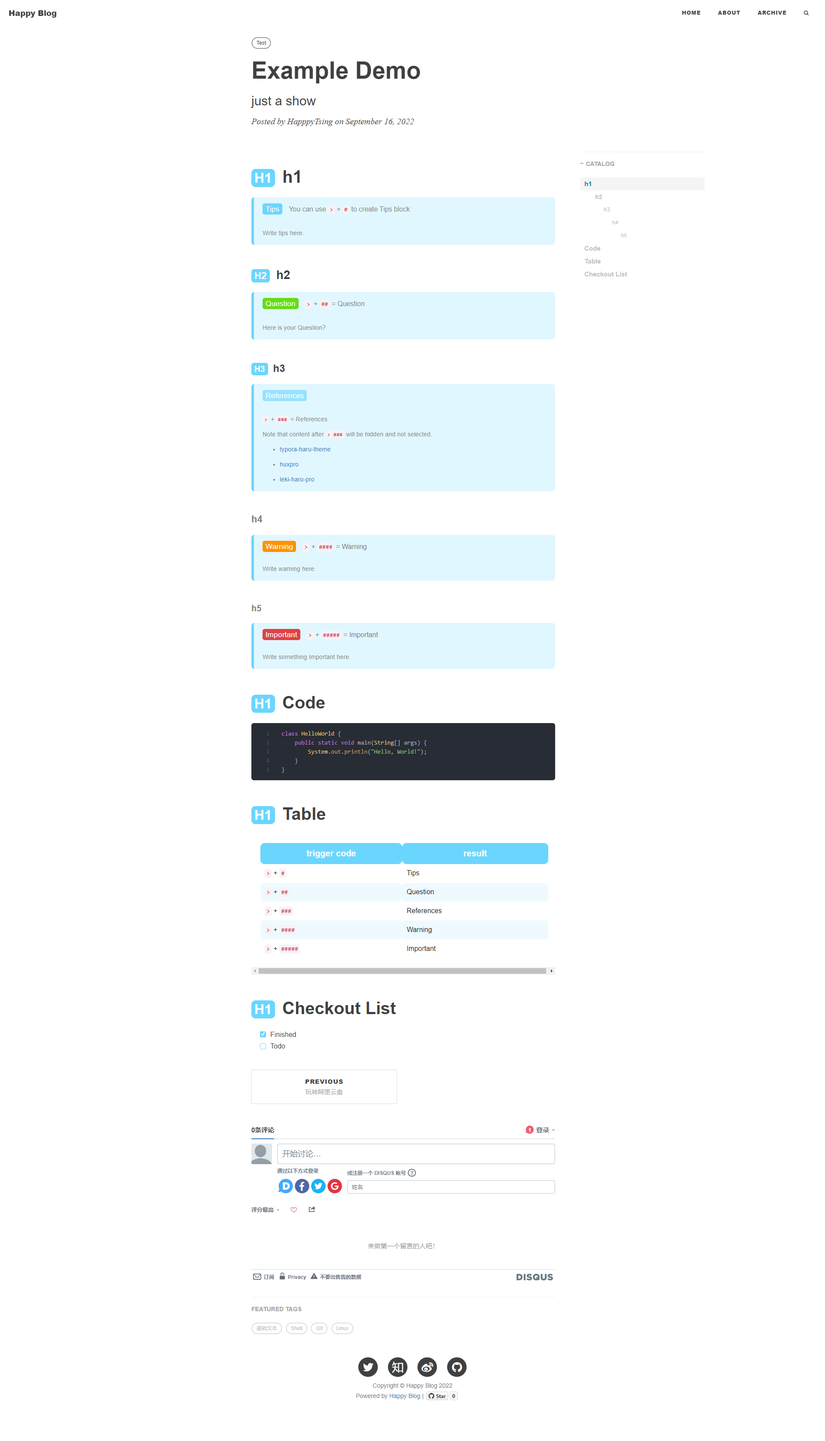
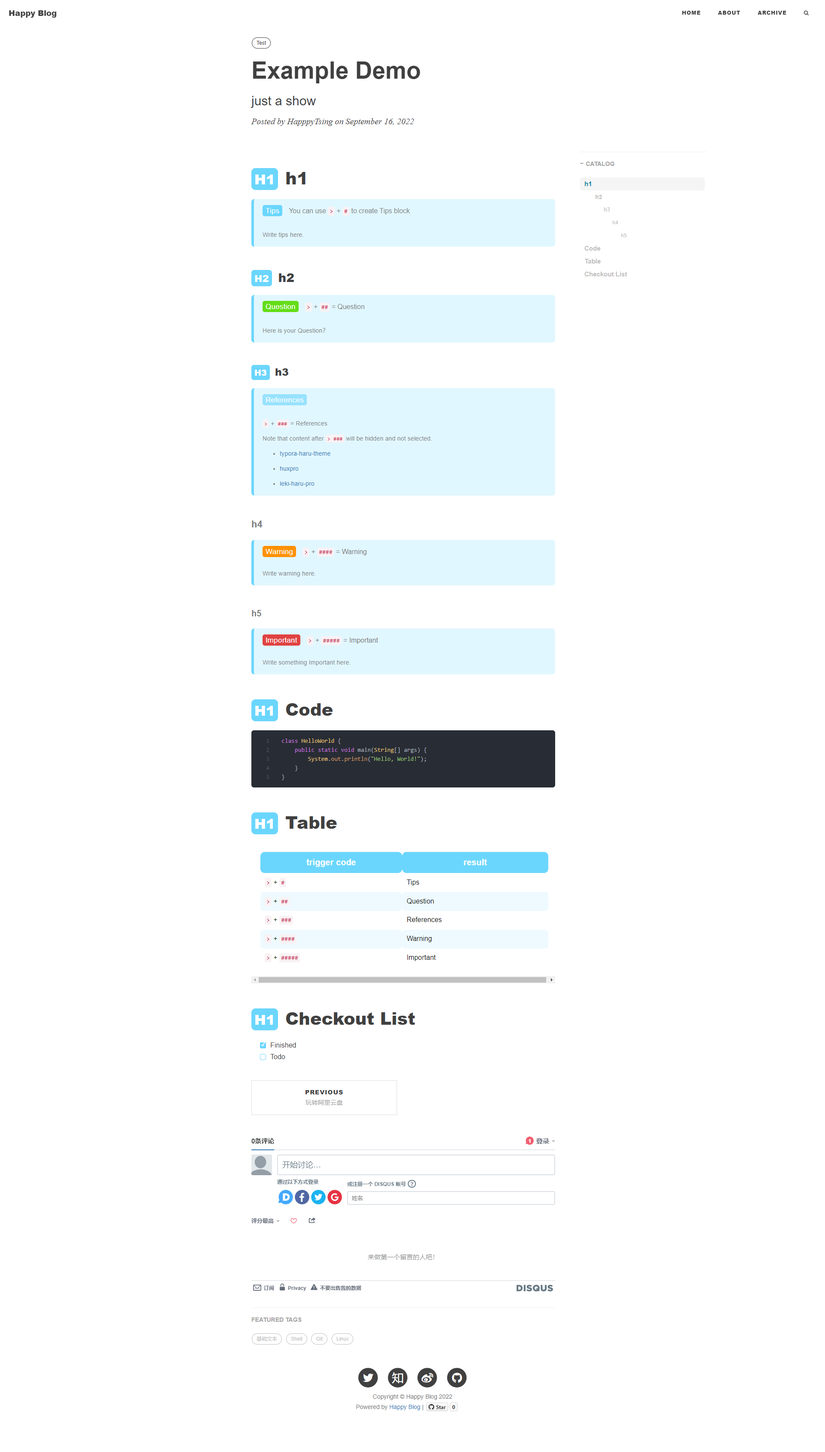
fix:h1-3 center

diff --git a/css/happy-blog.min.css b/css/happy-blog.min.css
@@ -1,0 +1,1 @@
+:root{--main-color:#6bd6fd;--transplate-color:rgba(128,30,255,.1);--dark-color:rgb(70,18,137);--light-color:#e1f7ff;--font-color:rgb(12,12,12);--blockquote-color:rgba(117,117,117,.9);--quote-title-font-size:.9em;--quote-tag-font-size:1.1em}@media (min-width:1200px){.post-container,.sidebar-container{padding-right:5%}}@media (min-width:768px){.post-container{padding-right:5%}}.sidebar-container{color:#bfbfbf;font-size:14px}.sidebar-container h5{color:#a3a3a3;padding-bottom:1em}.sidebar-container h5 a{color:#a3a3a3!important;text-decoration:none}.sidebar-container a{color:#bfbfbf!important}.sidebar-container a:hover,.sidebar-container a:active{color:#0085a1!important}.sidebar-container .tags a{border-color:#bfbfbf}.sidebar-container .tags a:hover,.sidebar-container .tags a:active{border-color:#0085a1}.sidebar-container .short-about img{width:80%;display:block;border-radius:5px;margin-bottom:20px}.sidebar-container .short-about p{margin-top:0;margin-bottom:20px}.sidebar-container .short-about .list-inline>li{padding-left:0}.catalog-container{padding:0}.side-catalog{display:block;overflow:auto;height:100%;padding-bottom:40px;width:295px}.side-catalog.fixed{position:fixed;top:-21px}.side-catalog.fold .catalog-toggle::before{content:"+"}.side-catalog.fold .catalog-body{display:none}.side-catalog .catalog-toggle::before{content:"−";position:relative;margin-right:5px;bottom:1px}.side-catalog .catalog-body{position:relative;list-style:none;height:auto;overflow:hidden;padding-left:0;padding-right:5px;text-indent:0}.side-catalog .catalog-body li{position:relative;list-style:none}.side-catalog .catalog-body li a{padding-left:10px;max-width:280px;display:inline-block;vertical-align:middle;height:30px;line-height:30px;overflow:hidden;text-decoration:none;white-space:nowrap;text-overflow:ellipsis}.side-catalog .catalog-body .h1_nav{margin-left:0;font-size:15px;font-weight:700}.side-catalog .catalog-body .h2_nav{margin-left:25px;font-size:14px;font-weight:700}.side-catalog .catalog-body .h3_nav{margin-left:45px;font-size:13px}.side-catalog .catalog-body .h4_nav{margin-left:65px;font-size:12px}.side-catalog .catalog-body .h4_nav a{max-width:170px}.side-catalog .catalog-body .h5_nav,.h6_nav{margin-left:85px;font-size:12px}.side-catalog .catalog-body .h5_nav,.h6_nav a{max-width:170px}.side-catalog .catalog-body .active{border-radius:4px;background-color:#f5f5f5}.side-catalog .catalog-body .active a{color:#0085a1!important}@media (max-width:1200px){.side-catalog{display:none}}.paper-snackbar{transition-property:opacity,bottom,left,right,width,margin,border-radius;transition-duration:0.5s;transition-timing-function:ease;font-size:14px;min-height:14px;background-color:#323232;background-color:#0085a1;position:fixed;display:flex;justify-content:space-between;align-items:center;color:#fff;line-height:22px;padding:18px 24px;bottom:0;opacity:0}@media (min-width:640px){.paper-snackbar{min-width:288px;max-width:568px;display:inline-flex;border-radius:2px;margin:24px;bottom:-100px}}@media (max-width:640px){.paper-snackbar{left:0;right:0}}.paper-snackbar .action{background:inherit;display:inline-block;border:none;font-size:inherit;text-transform:uppercase;color:#ffeb3b;margin:0 0 0 24px;padding:0;min-width:min-content;outline:0}.paper-button{position:relative;padding:4px 0;margin:1em;width:160px;overflow:hidden;user-select:none;color:#000;text-transform:uppercase;border-radius:3px;outline-color:#a3a3a3}.paper-button:hover{cursor:pointer}.paper-button button,.paper-button input[type="submit"]{background:inherit;border:none;display:block;width:100%;height:100%;font-size:1em;color:#000;text-transform:uppercase}.paper-button.colored,.paper-button.colored button{color:#4285f4}.paper-button.raised-button.colored{background-color:#4285f4}.paper-button .raised-button{box-shadow:0 2px 5px 0 rgba(0,0,0,.26)}.paper-button.raised-button.colored{background:#4285f4;color:#fff}.paper-button[disabled]{background-color:#eaeaea!important;color:#a8a8a8!important;cursor:auto}.paper-button:hover{background-color:#eaeaea}.paper-button.raised-button.colored:hover{background-color:#3367d6}button.paper-button{border:0;font-size:1em;line-height:25px;background-color:#fff}.paper-button input[type="submit"]{outline-color:#a3a3a3}.paper-button.colored.raised-button input[type="submit"]{color:#fff}.paper-shadow-animated.paper-shadow{transition:box-shadow 0.28s cubic-bezier(.4,0,.2,1)}.paper-shadow-top-z-1{box-shadow:0 2px 10px 0 rgba(0,0,0,.16)}.paper-shadow-bottom-z-1{box-shadow:0 2px 5px 0 rgba(0,0,0,.26)}.paper-shadow-top-z-2{box-shadow:0 6px 20px 0 rgba(0,0,0,.19)}.paper-shadow-bottom-z-2{box-shadow:0 8px 17px 0 rgba(0,0,0,.2)}.paper-shadow-top-z-3{box-shadow:0 17px 50px 0 rgba(0,0,0,.19)}.paper-shadow-bottom-z-3{box-shadow:0 12px 15px 0 rgba(0,0,0,.24)}.paper-shadow-top-z-4{box-shadow:0 25px 55px 0 rgba(0,0,0,.21)}.card{background:#fff;width:300px;height:300px;position:relative;margin:16px;border-radius:2px}.highlight,pre.highlight{background:#282c34;color:#abb2bf}.highlight pre{background:#282c34}.highlight .hll{background:#282c34}.highlight .c{color:#5c6370;font-style:italic}.highlight .err{color:#960050;background-color:#1e0010}.language-coq .highlight .err{background-color:transparent}.highlight .k,.language-coq .highlight .err{color:#c678dd}.highlight .l{color:#98c379}.highlight .n{color:#abb2bf}.highlight .o{color:#abb2bf}.highlight .p{color:#abb2bf}.highlight .cm{color:#5c6370;font-style:italic}.highlight .cp{color:#5c6370;font-style:italic}.highlight .c1{color:#5c6370;font-style:italic}.highlight .cs{color:#5c6370;font-style:italic}.highlight .ge{font-style:italic}.highlight .gs{font-weight:700}.highlight .kc{color:#c678dd}.highlight .kd{color:#c678dd}.highlight .kn{color:#c678dd}.highlight .kp{color:#c678dd}.highlight .kr{color:#c678dd}.highlight .kt{color:#c678dd}.highlight .ld{color:#98c379}.highlight .m{color:#d19a66}.highlight .s{color:#98c379}.highlight .na{color:#d19a66}.highlight .nb{color:#e5c07b}.highlight .nc{color:#e5c07b}.highlight .no{color:#e5c07b}.highlight .nd{color:#e5c07b}.highlight .ni{color:#e5c07b}.highlight .ne{color:#e5c07b}.highlight .nf{color:#abb2bf}.highlight .nl{color:#e5c07b}.highlight .nn{color:#abb2bf}.highlight .nx{color:#abb2bf}.highlight .py{color:#e5c07b}.highlight .nt{color:#e06c75}.highlight .nv{color:#e5c07b}.highlight .ow{font-weight:700}.highlight .w{color:#f8f8f2}.highlight .mf{color:#d19a66}.highlight .mh{color:#d19a66}.highlight .mi{color:#d19a66}.highlight .mo{color:#d19a66}.highlight .sb{color:#98c379}.highlight .sc{color:#98c379}.highlight .sd{color:#98c379}.highlight .s2{color:#98c379}.highlight .se{color:#98c379}.highlight .sh{color:#98c379}.highlight .si{color:#98c379}.highlight .sx{color:#98c379}.highlight .sr{color:#56b6c2}.highlight .s1{color:#98c379}.highlight .ss{color:#56b6c2}.highlight .bp{color:#e5c07b}.highlight .vc{color:#e5c07b}.highlight .vg{color:#e5c07b}.highlight .vi{color:#e06c75}.highlight .il{color:#d19a66}.highlight .gu{color:#75715e}.highlight .gd{color:#f92672}.highlight .gi{color:#a6e22e}.highlighter-rouge .highlight{margin-bottom:10px;border-radius:6px}.highlighter-rouge .highlight pre{font-size:14px;line-height:1.5;color:#555;background:transparent;border:0;margin:0;padding:0;word-wrap:normal}.highlighter-rouge .highlight .rouge-table .rouge-gutter,.highlighter-rouge .highlight .rouge-table .rouge-code{border:0!important}.highlighter-rouge .highlight .rouge-code pre{color:#abb2bf}.highlighter-rouge .highlight .table-responsive{margin:0;border:0}.highlighter-rouge .highlight .table{margin:0;table-layout:fixed}.highlighter-rouge .highlight table>tbody>tr>td{margin:0;border:0;padding:0}.highlighter-rouge .highlight table>tbody>tr>td>pre{padding:14px}.highlighter-rouge .highlight td.rouge-gutter{width:56px}.highlighter-rouge .highlight .lineno{text-align:right;border-radius:0}@media (max-width:480px){.highlighter-rouge .highlight{margin-left:-15px;margin-right:-15px;border-radius:0}.highlighter-rouge .highlight td.rouge-gutter{width:36px}.highlighter-rouge .highlight table>tbody>tr>td>pre{padding:14px 10px}}.search-page{position:fixed;top:0;right:0;bottom:0;left:0;z-index:100;background:#fff;-webkit-transition:all 400ms cubic-bezier(.32,1,.23,1);transition:all 400ms cubic-bezier(.32,1,.23,1);-webkit-transform:translate(0,100%);-ms-transform:translate(0,100%);transform:translate(0,100%);opacity:0}.search-page.search-active{opacity:1;-webkit-transform:translate(0,0) scale(1,1);-ms-transform:translate(0,0) scale(1,1);transform:translate(0,0) scale(1,1)}.search-page.search-active .search-main{opacity:1}.search-page .search-main{padding-top:80px;height:100%;opacity:0;-webkit-transition:all 400ms cubic-bezier(.32,1,.23,1) 250ms;transition:all 400ms cubic-bezier(.32,1,.23,1) 250ms}.search-page .search-main .row,.search-page .search-main .row>div{height:100%}.search-page .search-icon-close-container{position:absolute;z-index:1;padding:16px;top:0;right:2px}.search-page .search-icon-close-container i{font-size:20px}.search-page #search-input{font-family:"Fira Code",Menlo,Monaco,Consolas,"Courier New",monospace;border:none;outline:none;padding:0;margin:0;width:100%;font-size:30px;font-weight:700;color:#404040}@media only screen and (min-width:768px){.search-page #search-input{margin-left:20px}}.search-page #search-results{overflow:auto;height:100%;-webkit-overflow-scrolling:touch;padding-bottom:80px}.search-icon a,.search-icon-close{cursor:pointer;font-size:30px;color:#311e3e;-webkit-transition:all 0.25s;transition:all 0.25s}.search-icon a:hover,.search-icon-close:hover{opacity:.8}.search-icon,.search-icon-close{font-size:16px}body{font-family:-apple-system,BlinkMacSystemFont,"Helvetica Neue","Arial","PingFang SC","Hiragino Sans GB","STHeiti","Microsoft YaHei","Microsoft JhengHei","Source Han Sans SC","Noto Sans CJK SC","Source Han Sans CN","Noto Sans SC","Source Han Sans TC","Noto Sans CJK TC","WenQuanYi Micro Hei",SimSun,sans-serif;line-height:1.7;font-size:16px;color:#404040;overflow-x:hidden;text-rendering:auto;-webkit-font-smoothing:antialiased;-moz-osx-font-smoothing:grayscale}p{margin:.5rem 0}@media screen and (max-width:768px){p{margin:.3rem 0}}h1,h2,h3,h4,h5,h6{font-family:-apple-system,BlinkMacSystemFont,"Helvetica Neue","Arial","PingFang SC","Hiragino Sans GB","STHeiti","Microsoft YaHei","Microsoft JhengHei","Source Han Sans SC","Noto Sans CJK SC","Source Han Sans CN","Noto Sans SC","Source Han Sans TC","Noto Sans CJK TC","WenQuanYi Micro Hei",SimSun,sans-serif;line-height:1.7;line-height:1.1;font-weight:700}a{color:#404040}a:hover,a:focus{color:#0085a1}a img:hover,a img:focus{cursor:zoom-in}article{overflow:hidden}.post-container>h1,.post-container>h2,.post-container>h3,.post-container>h4,.post-container>h5,.post-container>h6{font-weight:800;line-height:1.5;margin-top:50px;margin-bottom:20px}.post-container>blockquote>h1,.post-container>blockquote>h2,.post-container>blockquote>h3,.post-container>blockquote>h4,.post-container>blockquote>h5,.post-container>blockquote>h6{margin:0 0 1em 0}.post-container>blockquote{margin:20px 0;font-size:var(--quote-title-font-size);color:var(--blockquote-color);border-left:6px solid var(--main-color);background:var(--light-color);border-radius:.5em;line-height:35px}.post-container blockquote h1{font-weight:200;font-size:var(--quote-tag-font-size);border-bottom:none;line-height:35px}.post-container blockquote h1::before{content:"Tips";background-color:var(--main-color);color:#fff;font-size:var(--quote-tag-font-size);border-radius:.3em;padding:3px 7px;margin-right:15px}.post-container blockquote h2{font-weight:200;font-size:var(--quote-tag-font-size);line-height:35px;margin:0}.post-container blockquote h2::before{content:"Question";background-color:#64dd17;color:#fff;font-size:var(--quote-tag-font-size);border-radius:.3em;padding:3px 7px;margin-right:15px}.post-container blockquote h3{font-weight:200;font-size:var(--quote-tag-font-size);line-height:35px;color:var(--light-color);-webkit-touch-callout:none;-webkit-user-select:none;-khtml-user-select:none;-moz-user-select:none;-ms-user-select:none;user-select:none}.post-container blockquote h3::before{content:"References";background-color:#6bd6fda1;color:#fff;font-size:var(--quote-tag-font-size);border-radius:.3em;padding:3px 7px;margin-right:15px;float:none;position:relative;top:0;left:0;vertical-align:baseline;border-width:0}.post-container blockquote h4{font-weight:200;font-size:var(--quote-tag-font-size);line-height:35px}.post-container blockquote h4::before{content:"Warning";background-color:#ff9100;color:#fff;font-size:var(--quote-tag-font-size);border-radius:.3em;padding:3px 7px;margin-right:15px;float:none;position:relative;top:0;left:0;vertical-align:baseline;border-width:0}.post-container blockquote h5{font-weight:200;font-size:var(--quote-tag-font-size);font-family:var(--base-font);line-height:35px}.post-container blockquote h5::before{content:"Important";background-color:rgb(224,66,66);color:#fff;font-size:var(--quote-tag-font-size);border-radius:.3em;padding:3px 7px;margin-right:15px;float:none;position:relative;top:0;left:0;vertical-align:baseline;border-width:0}blockquote p{margin:0}small.img-hint{display:block;margin-top:-20px;text-align:center}br+small.img-hint{margin-top:-40px}img.shadow{box-shadow:rgba(0,0,0,.258824) 0 2px 5px 0}select{-webkit-appearance:none;margin-top:15px;color:#337ab7;border-color:#337ab7;padding:0em .4em;background:#fff}select.sel-lang{min-height:28px;font-size:14px}table{margin-top:10px}.task-list{padding-left:20px}.task-list>.task-list-item{list-style:none}.task-list>.task-list-item>input{margin-right:10px;-webkit-appearance:none;appearance:none;outline:none}.task-list-item:hover>input:before,input[type="checkbox"]:hover:before{opacity:1;transition:0.3s;background-color:var(--main-color)}.task-list-item input::before{content:"";display:inline-block;border-radius:.25em;vertical-align:middle;border:1.2px solid var(--main-color);background-color:#fff;width:1.4rem;height:1.4rem;margin-top:-.68rem;margin-bottom:-.5rem}.task-list-item input:checked::before{padding-left:.125em;content:"✔";color:#fff;background-color:var(--main-color);font-size:.8rem;line-height:.95rem;margin-top:-.68rem;transition:background-color 200ms ease-in-out}#footer-word-count-label{color:#fff;padding:1px 8px;border-radius:1em;background-color:var(--main-color)}.post-container>.table-responsive>table{width:95%;border-collapse:collapse;margin:20px}.post-container>.table-responsive td,th{border:1px solid transparent;color:rgb(18,18,18);height:30px;padding:10px;border-radius:.5em;transition:all 0.3s linear;-moz-transition:all 0.3s linear;-webkit-transition:all 0.3s linear}.post-container>.table-responsive thead th{background-color:#6bd6fd;font-size:20px;color:#fff;font-weight:bolder;width:100px;text-align:center;vertical-align:middle;padding:10px;border-bottom:0}.post-container>.table-responsive tr:nth-child(odd){background:#fff}.post-container>.table-responsive tr:nth-child(even){background:#e1f7ff94}.post-container>.table-responsive td:hover{background-color:#6bd6fd!important;color:white!important;transition:all 0.3s linear;-moz-transition:all 0.3s linear;-webkit-transition:all 0.3s linear}@media screen and (max-width:767px){.table-responsive{border:0}}hr.small{max-width:100px;margin:15px auto;border-width:4px;border-color:#fff}pre,.table-responsive{-webkit-overflow-scrolling:touch}pre code{display:block;width:auto;white-space:pre;word-wrap:normal}code,kbd,pre,samp{font-family:"Fira Code",Menlo,Monaco,Consolas,"Courier New",monospace}.postlist-container{margin-bottom:15px}.post-container a{color:#337ab7}.post-container a:hover,.post-container a:focus{color:#0085a1}.post-container h1+p,.post-container h2+p,.post-container h3+p,.post-container h4+p,.post-container h5+p,.post-container h6+p{margin-top:20px}.post-container h1{font-size:40px;border-radius:.7em;width:fit-content}.post-container h1::before{content:"H1";border-radius:.3em;font-size:.8em;padding:3px 7px;margin-right:17px;background-color:var(--main-color);color:#fff}.post-container h2{font-size:28px;border-radius:.5em;width:fit-content}.post-container h2::before{content:"H2";border-radius:.3em;font-size:.8em;padding:3px 7px;margin-right:15px;background-color:var(--main-color);color:#fff}.post-container h3{font-size:24px;border-radius:.3em;width:fit-content}.post-container h3::before{content:"H3";color:#fff;font-size:.8em;background-color:var(--main-color);border-radius:.3em;margin-right:12px;padding:4px 7px;float:none;position:relative;top:0;left:0;vertical-align:baseline;border-width:0}.post-container h4{font-size:22px;font-weight:600;color:gray}.post-container h4+p{margin-top:10px}.post-container h5,.post-container h6{font-size:20px;font-weight:600;color:gray}.post-container h5+p,.post-container h6+p{margin-top:10px}@media screen and (max-width:768px){.post-container h1{font-size:30px}.post-container h2{font-size:22px}.post-container h3{font-size:20px}.post-container h4{font-size:19px}.post-container h5,.post-container h6{font-size:18px}}.post-container ul,.post-container ol{margin-bottom:10px}@media screen and (max-width:768px){.post-container ul,.post-container ol{padding-left:60px}}@media screen and (max-width:500px){.post-container ul,.post-container ol{padding-left:4px}}.post-container ol ol,.post-container ol ul,.post-container ul ol,.post-container ul ul{margin-bottom:5px}.post-container li p{margin:0;margin-bottom:5px}.post-container li h1,.post-container li h2,.post-container li h3,.post-container li h4,.post-container li h5,.post-container li h6{line-height:2;margin-top:20px}.post-container .pager li{width:48%}.post-container .pager li.next{float:right}.post-container .pager li.previous{float:left}.post-container .pager li>a{width:100%}.post-container .pager li>a>span{color:#a3a3a3;font-weight:400;letter-spacing:.5px}.post-container .anchorjs-link{position:absolute;text-decoration:none!important}@media only screen and (max-width:767px){.navbar-default .navbar-collapse{position:absolute;right:0;border:none;background:#fff;box-shadow:0 5px 10px 2px rgba(0,0,0,.2);box-shadow:rgba(0,0,0,.117647) 0 1px 6px,rgba(0,0,0,.239216) 0 1px 4px;border-radius:2px;width:170px}#huxblog_navbar{opacity:0;transform:scaleX(0);transform-origin:top right;transition:all 200ms cubic-bezier(.47,0,.4,.99) 0ms;-webkit-transform:scaleX(0);-webkit-transform-origin:top right;-webkit-transition:all 200ms cubic-bezier(.47,0,.4,.99) 0ms}#huxblog_navbar a{font-size:13px;line-height:28px}#huxblog_navbar .navbar-collapse{height:0;transform:scaleY(0);transform-origin:top right;transition:transform 400ms cubic-bezier(.32,1,.23,1) 0ms;-webkit-transform:scaleY(0);-webkit-transform-origin:top right;-webkit-transition:-webkit-transform 400ms cubic-bezier(.32,1,.23,1) 0ms}#huxblog_navbar li{opacity:0;transition:opacity 100ms cubic-bezier(.23,1,.32,1) 0ms;-webkit-transition:opacity 100ms cubic-bezier(.23,1,.32,1) 0ms}#huxblog_navbar.in{transform:scaleX(1);-webkit-transform:scaleX(1);opacity:1;transition:all 250ms cubic-bezier(.23,1,.32,1) 0ms;-webkit-transition:all 250ms cubic-bezier(.23,1,.32,1) 0ms}#huxblog_navbar.in .navbar-collapse{transform:scaleY(1);-webkit-transform:scaleY(1);transition:transform 500ms cubic-bezier(.23,1,.32,1);-webkit-transition:-webkit-transform 500ms cubic-bezier(.23,1,.32,1)}#huxblog_navbar.in li{opacity:1;transition:opacity 450ms cubic-bezier(.23,1,.32,1) 205ms;-webkit-transition:opacity 450ms cubic-bezier(.23,1,.32,1) 205ms}}.navbar-custom{background:none;border:none;position:absolute;top:0;left:0;width:100%;z-index:3;font-family:-apple-system,BlinkMacSystemFont,"Helvetica Neue","Arial","PingFang SC","Hiragino Sans GB","STHeiti","Microsoft YaHei","Microsoft JhengHei","Source Han Sans SC","Noto Sans CJK SC","Source Han Sans CN","Noto Sans SC","Source Han Sans TC","Noto Sans CJK TC","WenQuanYi Micro Hei",SimSun,sans-serif;line-height:1.7}.navbar-custom .navbar-brand{font-weight:800;color:#fff;height:56px;line-height:25px}.navbar-custom .navbar-brand:hover{color:rgba(255,255,255,.8)}.navbar-custom .nav li a{text-transform:uppercase;font-size:12px;line-height:20px;font-weight:800;letter-spacing:1px}.navbar-custom .nav li a:active{background:rgba(0,0,0,.12)}@media only screen and (min-width:768px){.navbar-custom{background:transparent;border-bottom:1px solid transparent}.navbar-custom body{font-size:20px}.navbar-custom .navbar-brand{color:#fff;padding:20px;line-height:20px}.navbar-custom .navbar-brand:hover,.navbar-custom .navbar-brand:focus{color:rgba(255,255,255,.8)}.navbar-custom .nav li a{color:#fff;padding:20px}.navbar-custom .nav li a:hover,.navbar-custom .nav li a:focus{color:rgba(255,255,255,.8)}.navbar-custom .nav li a:active{background:none}}.navbar-custom.invert .navbar-toggle:active{background-color:rgba(0,0,0,.05)}.navbar-custom.invert .navbar-toggle .icon-bar{background-color:#404040}.navbar-custom.invert .navbar-brand{color:#404040}.navbar-custom.invert .navbar-brand:hover,.navbar-custom.invert .navbar-brand:focus{color:#0085a1}.navbar-custom.invert .nav li a{color:#404040}.navbar-custom.invert .nav li a:hover,.navbar-custom.invert .nav li a:focus{color:#0085a1}@media only screen and (min-width:1170px){.navbar-custom{-webkit-transition:background-color 0.3s;-moz-transition:background-color 0.3s;transition:background-color 0.3s;-webkit-transform:translate3d(0,0,0);-moz-transform:translate3d(0,0,0);-ms-transform:translate3d(0,0,0);-o-transform:translate3d(0,0,0);transform:translate3d(0,0,0);-webkit-backface-visibility:hidden;backface-visibility:hidden}.navbar-custom.is-fixed{position:fixed;top:-61px;background-color:rgba(255,255,255,.9);border-bottom:1px solid #f2f2f2;-webkit-transition:-webkit-transform 0.3s;-moz-transition:-moz-transform 0.3s;transition:transform 0.3s}.navbar-custom.is-fixed .navbar-brand{color:#404040}.navbar-custom.is-fixed .navbar-brand:hover,.navbar-custom.is-fixed .navbar-brand:focus{color:#0085a1}.navbar-custom.is-fixed .nav li a{color:#404040}.navbar-custom.is-fixed .nav li a:hover,.navbar-custom.is-fixed .nav li a:focus{color:#0085a1}.navbar-custom.is-visible{-webkit-transform:translate3d(0,100%,0);-moz-transform:translate3d(0,100%,0);-ms-transform:translate3d(0,100%,0);-o-transform:translate3d(0,100%,0);transform:translate3d(0,100%,0)}}.intro-header{background:no-repeat center center;background-color:#a3a3a3;background-attachment:scroll;-webkit-background-size:cover;-moz-background-size:cover;background-size:cover;-o-background-size:cover;margin-bottom:0}.intro-header.style-text{background:none}.intro-header.style-text .site-heading,.intro-header.style-text .post-heading,.intro-header.style-text .page-heading{padding:85px 0 20px;color:#404040}.intro-header.style-text .site-heading .subheading,.intro-header.style-text .post-heading .subheading,.intro-header.style-text .page-heading .subheading{margin-bottom:15px}.intro-header.style-text .tags a,.intro-header.style-text .tags .tag{border-color:#404040;color:#404040}.intro-header.style-text .tags a:hover,.intro-header.style-text .tags .tag:hover,.intro-header.style-text .tags a:active,.intro-header.style-text .tags .tag:active{background-color:rgba(0,0,0,.05)}@media only screen and (min-width:768px){.intro-header{margin-bottom:20px}}.intro-header .site-heading,.intro-header .post-heading,.intro-header .page-heading{padding:85px 0 55px;color:#fff}@media only screen and (min-width:768px){.intro-header .site-heading,.intro-header .post-heading,.intro-header .page-heading{padding:150px 0}}.intro-header .site-heading{padding:95px 0 70px}@media only screen and (min-width:768px){.intro-header .site-heading{padding:150px 0}}.intro-header .site-heading,.intro-header .page-heading{text-align:center}.intro-header .site-heading h1,.intro-header .page-heading h1{margin-top:0;font-size:50px}.intro-header .site-heading .subheading,.intro-header .page-heading .subheading{font-family:-apple-system,BlinkMacSystemFont,"Helvetica Neue","Arial","PingFang SC","Hiragino Sans GB","STHeiti","Microsoft YaHei","Microsoft JhengHei","Source Han Sans SC","Noto Sans CJK SC","Source Han Sans CN","Noto Sans SC","Source Han Sans TC","Noto Sans CJK TC","WenQuanYi Micro Hei",SimSun,sans-serif;line-height:1.7;font-size:18px;line-height:1.1;display:block;font-weight:300;margin:10px 0 0}@media only screen and (min-width:768px){.intro-header .site-heading h1,.intro-header .page-heading h1{font-size:80px}}.intro-header .post-heading h1{font-size:30px;margin-bottom:24px}.intro-header .post-heading .subheading,.intro-header .post-heading .meta{line-height:1.1;display:block}.intro-header .post-heading .subheading{font-family:-apple-system,BlinkMacSystemFont,"Helvetica Neue","Arial","PingFang SC","Hiragino Sans GB","STHeiti","Microsoft YaHei","Microsoft JhengHei","Source Han Sans SC","Noto Sans CJK SC","Source Han Sans CN","Noto Sans SC","Source Han Sans TC","Noto Sans CJK TC","WenQuanYi Micro Hei",SimSun,sans-serif;line-height:1.7;font-size:17px;line-height:1.4;font-weight:400;margin:10px 0 30px;margin-top:-5px}.intro-header .post-heading .meta{font-family:"Lora","Times New Roman",serif;font-style:italic;font-weight:300;font-size:16px}.intro-header .post-heading .meta a{color:#fff}@media only screen and (min-width:768px){.intro-header .post-heading h1{font-size:55px}.intro-header .post-heading .subheading{font-size:30px}.intro-header .post-heading .meta{font-size:20px}}.intro-header .header-img-credit{position:absolute;bottom:6px;right:9px;color:#fff;opacity:.3;font-size:10px;z-index:1}.intro-header .header-img-credit a{color:#fff}@media only screen and (min-width:768px){.intro-header .header-img-credit{font-size:12px;bottom:10px;right:15px}}.post-preview>a{color:#404040}.post-preview>a:hover,.post-preview>a:focus{text-decoration:none;color:#0085a1}.post-preview>a>.post-title{font-size:21px;line-height:1.3;margin-top:30px;margin-bottom:8px}.post-preview>a>.post-subtitle{font-size:15px;line-height:1.3;margin:0;font-weight:300;margin-bottom:10px}.post-preview>.post-meta{font-family:"Lora","Times New Roman",serif;color:#a3a3a3;font-size:16px;font-style:italic;margin-top:0}.post-preview>.post-meta>a{text-decoration:none;color:#404040}.post-preview>.post-meta>a:hover,.post-preview>.post-meta>a:focus{color:#0085a1;text-decoration:underline}@media only screen and (min-width:768px){.post-preview>a>.post-title{font-size:25px;line-height:1.3;margin-bottom:10px}.post-preview>a>.post-subtitle{font-size:16px}.post-preview .post-meta{font-size:18px}}.post-content-preview{font-size:13px;font-style:normal;color:#a3a3a3}.post-content-preview:hover{color:#0085a1}@media only screen and (min-width:768px){.post-content-preview{font-size:14px}}.section-heading{font-size:36px;margin-top:60px;font-weight:700}.caption{text-align:center;font-size:14px;padding:10px;font-style:italic;margin:0;display:block;border-bottom-right-radius:5px;border-bottom-left-radius:5px}footer{font-size:20px;padding:50px 0 65px}footer .list-inline{margin:0;padding:0}footer .copyright{font-size:14px;text-align:center;margin-bottom:0}footer .copyright a{color:#337ab7}footer .copyright a:hover,footer .copyright a:focus{color:#0085a1}.btn{font-family:-apple-system,BlinkMacSystemFont,"Helvetica Neue","Arial","PingFang SC","Hiragino Sans GB","STHeiti","Microsoft YaHei","Microsoft JhengHei","Source Han Sans SC","Noto Sans CJK SC","Source Han Sans CN","Noto Sans SC","Source Han Sans TC","Noto Sans CJK TC","WenQuanYi Micro Hei",SimSun,sans-serif;line-height:1.7;text-transform:uppercase;font-size:14px;font-weight:800;letter-spacing:1px;border-radius:0;padding:15px 25px}.btn-lg{font-size:16px;padding:25px 35px}.btn-default:hover,.btn-default:focus{background-color:#0085a1;border:1px solid #0085a1;color:#fff}.pager{margin:20px 0 0!important;padding:0px!important}.pager li>a,.pager li>span{font-family:-apple-system,BlinkMacSystemFont,"Helvetica Neue","Arial","PingFang SC","Hiragino Sans GB","STHeiti","Microsoft YaHei","Microsoft JhengHei","Source Han Sans SC","Noto Sans CJK SC","Source Han Sans CN","Noto Sans SC","Source Han Sans TC","Noto Sans CJK TC","WenQuanYi Micro Hei",SimSun,sans-serif;line-height:1.7;text-transform:uppercase;font-size:13px;font-weight:800;letter-spacing:1px;padding:10px;background-color:#fff;border-radius:0}@media only screen and (min-width:768px){.pager li>a,.pager li>span{font-size:14px;padding:15px 25px}}.pager li>a{color:#404040}.pager li>a:hover,.pager li>a:focus{color:#fff;background-color:#0085a1;border:1px solid #0085a1}.pager li>a:hover>span,.pager li>a:focus>span{color:#fff}.pager .disabled>a,.pager .disabled>a:hover,.pager .disabled>a:focus,.pager .disabled>span{color:#a3a3a3;background-color:#404040;cursor:not-allowed}::-moz-selection{color:#fff;text-shadow:none;background:#0085a1}::selection{color:#fff;text-shadow:none;background:#0085a1}img::selection{color:#fff;background:transparent}img::-moz-selection{color:#fff;background:transparent}.d-none{display:none!important}.tags{margin-bottom:-5px}.tags.tags-sup a,.tags.tags-sup .tag{padding:0 10px 0 12px}.tags a,.tags .tag{display:inline-block;border:1px solid rgba(255,255,255,.8);border-radius:999em;padding:0 10px 0 10px;color:#fff;line-height:24px;font-size:12px;text-decoration:none;margin:0 1px;margin-bottom:6px;cursor:pointer}.tags a>sup,.tags .tag>sup{margin-left:-2px;font-weight:700}.tags a:hover,.tags .tag:hover,.tags a:active,.tags .tag:active{color:#fff;border-color:#fff;background-color:rgba(255,255,255,.4);text-decoration:none}@media only screen and (min-width:768px){.tags a,.tags .tag{margin-right:5px}}#tag-heading{padding:70px 0 60px}@media only screen and (min-width:768px){#tag-heading{padding:55px 0}}#tag_cloud{margin:20px 0 15px 0}#tag_cloud a,#tag_cloud .tag{transition-property:all;transition-duration:0.4s;transition-timing-function:ease;font-size:14px;border:none;line-height:28px;margin:0 2px;margin-bottom:8px;background:#f3f5f5}#tag_cloud a:hover,#tag_cloud .tag:hover,#tag_cloud a:active,#tag_cloud .tag:active,#tag_cloud a.focus,#tag_cloud .tag.focus{background-color:#0085a1!important}#tag_cloud a.focus,#tag_cloud .tag.focus{box-shadow:rgba(0,0,0,.117647) 0 1px 6px,rgba(0,0,0,.239216) 0 1px 4px}#tag_cloud a.tag-button--all,#tag_cloud .tag.tag-button--all{font-weight:700;color:#0085a1!important}#tag_cloud a.tag-button--all:hover,#tag_cloud .tag.tag-button--all:hover,#tag_cloud a.tag-button--all:active,#tag_cloud .tag.tag-button--all:active,#tag_cloud a.tag-button--all.focus,#tag_cloud .tag.tag-button--all.focus{background-color:#e4e4e4!important}@media only screen and (min-width:768px){#tag_cloud{margin-bottom:25px}}.tag-comments{font-size:12px}@media only screen and (min-width:768px){.tag-comments{font-size:14px}}.t:first-child{margin-top:0}.listing-seperator{color:#0085a1;font-size:21px!important}.listing-seperator::before{margin-right:5px}@media only screen and (min-width:768px){.listing-seperator{font-size:20px!important;line-height:2!important}}.mini-post-list{margin:20px 0 15px 0}.mini-post-list .tag-text{font-weight:200;font-family:-apple-system,BlinkMacSystemFont,"Helvetica Neue","Arial","PingFang SC","Hiragino Sans GB","STHeiti","Microsoft YaHei","Microsoft JhengHei","Source Han Sans SC","Noto Sans CJK SC","Source Han Sans CN","Noto Sans SC","Source Han Sans TC","Noto Sans CJK TC","WenQuanYi Micro Hei",SimSun,sans-serif;line-height:1.7}.mini-post-list .post-preview{position:relative}.mini-post-list .post-preview>a .post-title{font-size:16px;font-weight:500;margin-top:20px}.mini-post-list .post-preview>a .post-subtitle{font-size:13px}.mini-post-list .post-preview>.post-meta{position:absolute;right:5px;bottom:0;margin:0;font-size:12px;line-height:12px}@media only screen and (min-width:768px){.mini-post-list .post-preview{margin-left:20px}.mini-post-list .post-preview>a>.post-title{font-size:18px;line-height:1.3}.mini-post-list .post-preview>a>.post-subtitle{font-size:14px}.mini-post-list .post-preview .post-meta{font-size:18px}}.post-container img{display:block;max-width:100%;height:auto;margin:1.5em auto 1.6em auto}.navbar-default .navbar-toggle:focus,.navbar-default .navbar-toggle:hover{background-color:inherit}.navbar-default .navbar-toggle:active{background-color:rgba(255,255,255,.25)}.navbar-default .navbar-toggle{border-color:transparent;padding:19px 16px;margin-top:2px;margin-right:2px;margin-bottom:2px;border-radius:50%}.navbar-default .navbar-toggle .icon-bar{width:18px;border-radius:0;background-color:#fff}.navbar-default .navbar-toggle .icon-bar+.icon-bar{margin-top:3px}.page-fullscreen .intro-header{position:fixed;left:0;top:0;width:100%;height:100%}.page-fullscreen #tag-heading{position:fixed;left:0;top:0;padding-bottom:150px;width:100%;height:100%;display:-webkit-box;-webkit-box-orient:vertical;-webkit-box-pack:center;-webkit-box-align:center;display:-webkit-flex;-webkit-align-items:center;-webkit-justify-content:center;-webkit-flex-direction:column;display:flex;align-items:center;justify-content:center;flex-direction:column}.page-fullscreen footer{position:absolute;width:100%;bottom:0;padding-bottom:20px;opacity:.6;color:#fff}.page-fullscreen footer .copyright{color:#fff}.page-fullscreen footer .copyright a{color:#fff}.page-fullscreen footer .copyright a:hover{color:#ddd}.MathJax_SVG_Display{overflow:auto;-webkit-overflow-scrolling:touch}.no-scroll{overflow-y:hidden}

diff --git a/sw.js b/sw.js
@@ -17,13 +17,13 @@ const PRECACHE_LIST = [
   "./offline.html",
   "./js/jquery.min.js",
   "./js/bootstrap.min.js",
-  "./js/hux-blog.min.js",
+  "./js/happy-blog.min.js",
   "./js/snackbar.js",
   // "./img/icon_wechat.png",
   "./img/avatar/2.jpg",
   "./img/home-bg/1.jpg",
   "./img/404-bg/1.jpg",
-  "./css/hux-blog.min.css",
+  "./css/happy-blog.min.css",
   "./css/bootstrap.min.css",
   // "//cdnjs.cloudflare.com/ajax/libs/font-awesome/4.6.3/css/font-awesome.min.css",
   // "//cdnjs.cloudflare.com/ajax/libs/font-awesome/4.6.3/fonts/fontawesome-webfont.woff2?v=4.6.3",

diff --git a/_includes/footer.html b/_includes/footer.html
@@ -28,7 +28,7 @@
 <script src="{{ "/js/bootstrap.min.js " | prepend: site.baseurl }}"></script>
 
 <!-- Custom Theme JavaScript -->
-<script src="{{ "/js/hux-blog.min.js " | prepend: site.baseurl }}"></script>
+<script src="{{ "/js/happy-blog.min.js " | prepend: site.baseurl }}"></script>
 
 <!-- Simple Jekyll Search -->
 <script src="{{ "/js/simple-jekyll-search.min.js" | prepend: site.baseurl }}"></script>

diff --git a/css/happy-blog.css b/css/happy-blog.css
@@ -694,9 +694,10 @@ article {
 .post-container > h4,
 .post-container > h5,
 .post-container > h6 {
+  font-weight: 800;
+  line-height: 1.5;
   margin-top: 50px;
   margin-bottom: 20px;
-  line-height: 1.4;
 }
 .post-container > blockquote > h1,
 .post-container > blockquote > h2,

diff --git a/_includes/head.html b/_includes/head.html
@@ -62,7 +62,7 @@
   site.baseurl }}">
 
   <!-- Custom CSS -->
-  <link rel="stylesheet" href="{{ " /css/hux-blog.min.css" | prepend:
+  <link rel="stylesheet" href="{{ " /css/happy-blog.min.css" | prepend:
   site.baseurl }}">
 
   <!-- Custom Fonts -->

diff --git a/README.md b/README.md
@@ -2,9 +2,12 @@
 
 fork from @[Github Hux Blog](https://github.com/Huxpro/huxpro.github.io)
 
-[Build Blog With Github Page And Jekyll - old version](https://blog.leqing.work/2021/09/14/Build-Blog-With-Github-Page-And-Jekyll/)
+built like [Build Blog With Github Page And Jekyll - old version](https://blog.leqing.work/2021/09/14/Build-Blog-With-Github-Page-And-Jekyll/)
 
-css idea inspired by [haru](https://github.com/LSTM-Kirigaya/typora-haru-theme)
+css idea inspired by follows:
+
+- [haru](https://github.com/LSTM-Kirigaya/typora-haru-theme)：fancy typora theme
+- [xidoo.top](https://xidoo.top/)：beautiful web site for coder
 
 # Modify
 
@@ -21,8 +24,6 @@ css idea inspired by [haru](https://github.com/LSTM-Kirigaya/typora-haru-theme)
   - `> ###` References
   - `> ####` Warning
   - `> #####` Important
-
-- background images
 
 # Example Demo
 
